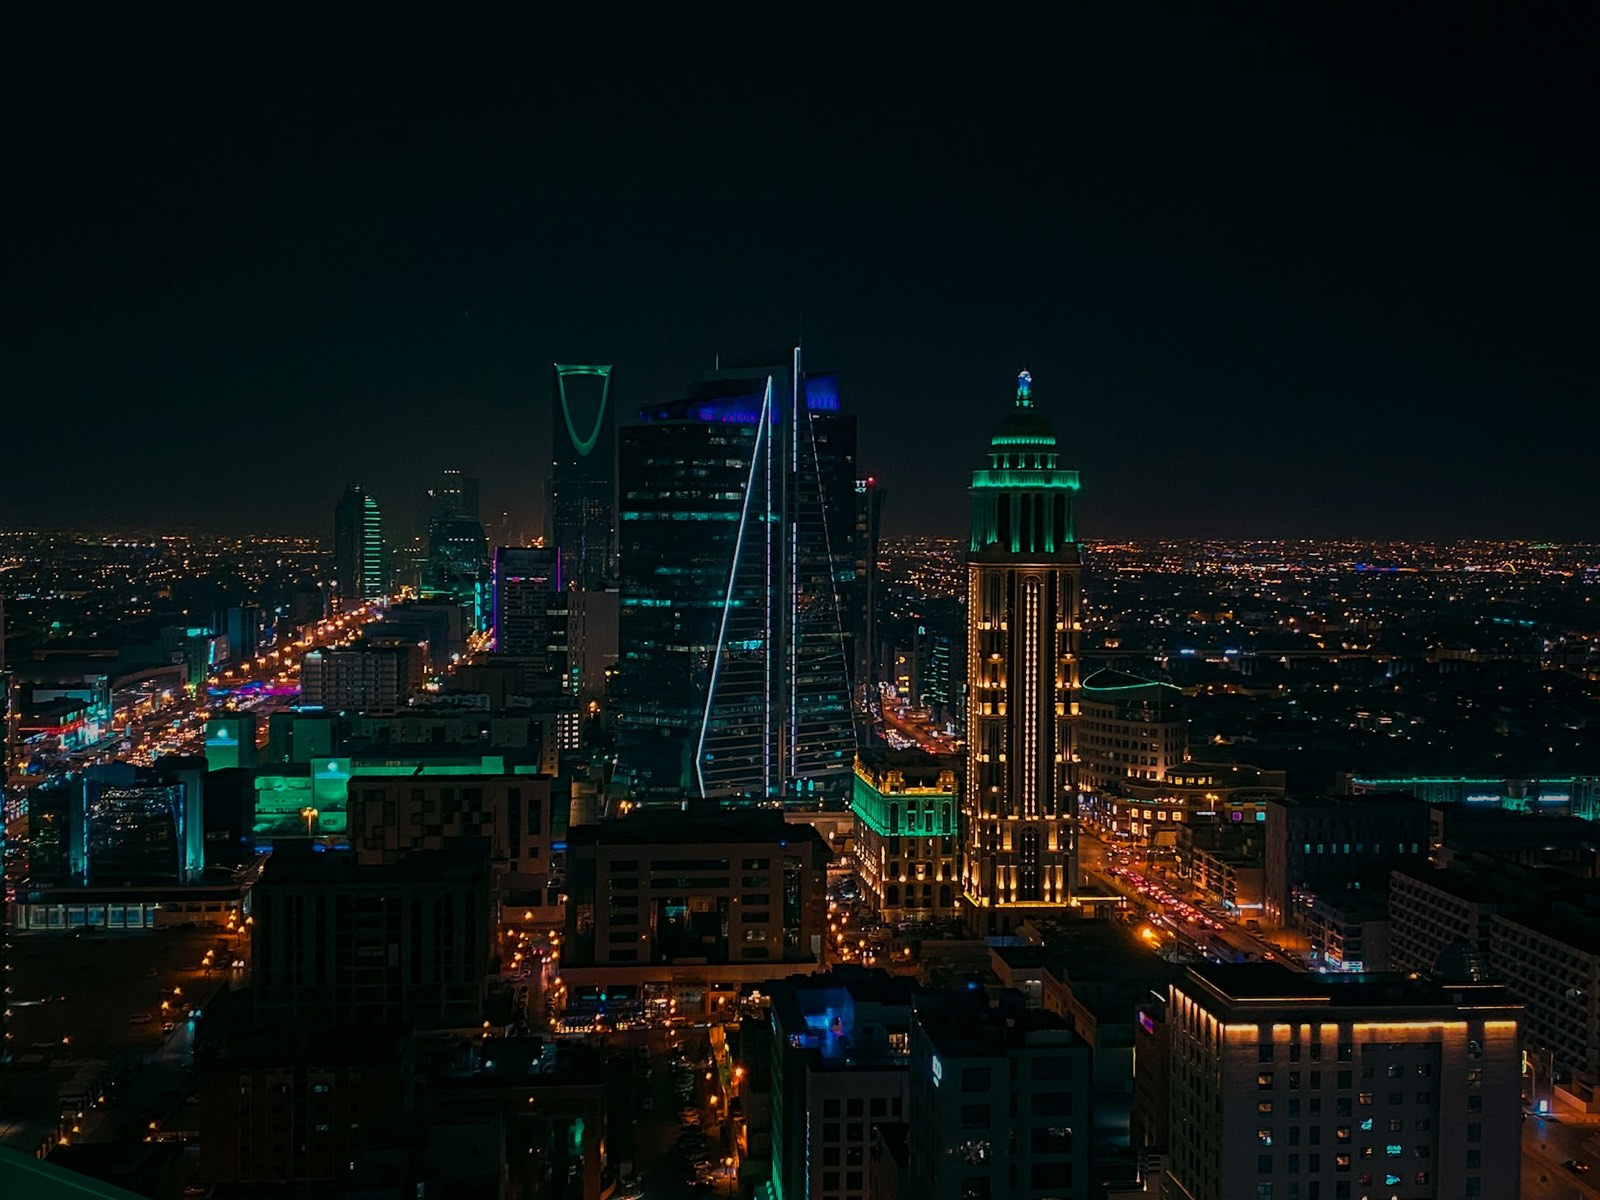
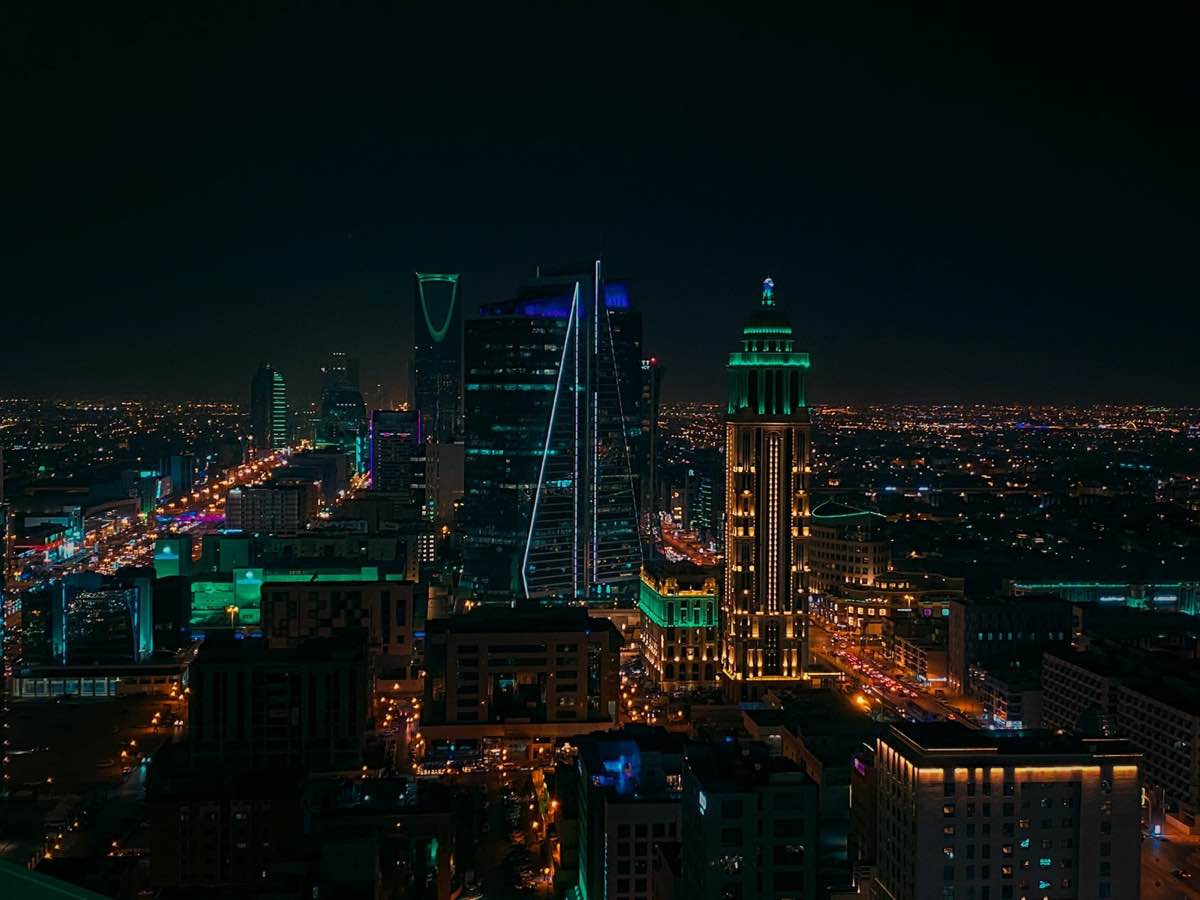
Refactor Middleware and Update Next.js Configuration for Enhanced Security and Performance
- Removed unnecessary comments and streamlined the middleware function in middleware.ts for clarity.
- Added security headers in next.config.js to improve application security.
- Updated package.json and package-lock.json to include the 'critters' package for improved performance.
- Changed image format in Hero component to WebP for better loading efficiency and visual quality.
- Preloaded the Riyadh skyline image in layout.tsx to enhance loading performance.

Changed region(s): [[0.0308, 0.5911, 0.0925, 0.6222], [0.7092, 0.6533, 0.74, 0.6844], [0.1233, 0.56, 0.1542, 0.5911]]

diff --git a/middleware.ts b/middleware.ts
@@ -1,31 +1,12 @@
 import { NextResponse } from 'next/server'
 import type { NextRequest } from 'next/server'
 
-/**
- * Landing page middleware – worldwide access, no geo-blocking.
- * The site is available globally with a focus on Saudi Arabia (KSA) and the Middle East.
- * Do not add country-based redirects or blocks here; deployment/CDN geo rules
- * (e.g. Vercel, Cloudflare) must also allow all regions if you want worldwide access.
- */
 export function middleware(request: NextRequest) {
-  const response = NextResponse.next()
-
-  // Security / UX headers only – no geo-blocking; site is worldwide (incl. Saudi Arabia)
-  response.headers.set('X-Content-Type-Options', 'nosniff')
-  response.headers.set('X-Frame-Options', 'DENY')
-  response.headers.set('Referrer-Policy', 'strict-origin-when-cross-origin')
-
-  return response
+  return NextResponse.next()
 }
 
 export const config = {
   matcher: [
-    /*
-     * Match all pathnames except:
-     * - _next/static (static files)
-     * - _next/image (image optimization)
-     * - favicon.ico, logo.png, other static assets
-     */
     '/((?!_next/static|_next/image|favicon.ico|logo.png|.*\\.(?:svg|png|jpg|jpeg|gif|webp|ico)$).*)',
   ],
 }

diff --git a/app/layout.tsx b/app/layout.tsx
@@ -5,7 +5,7 @@ import { LocaleProvider } from '@/context/LocaleContext'
 import { AnalyticsProvider } from '@/context/AnalyticsContext'
 import { JsonLd } from './json-ld'
 
-const ibm = IBM_Plex_Sans_Arabic({ subsets: ['latin', 'arabic'], variable: '--font-ibm', display: 'swap', weight: ['400', '500', '700'] })
+const ibm = IBM_Plex_Sans_Arabic({ subsets: ['latin', 'arabic'], variable: '--font-ibm', display: 'swap', weight: ['400', '700'] })
 
 export const metadata: Metadata = {
   title: {
@@ -98,7 +98,15 @@ export default function RootLayout({
       className={`${ibm.variable}`}
       suppressHydrationWarning
     >
-      {/* Body font: IBM Plex Sans Arabic */}
+      <head>
+        <link
+          rel="preload"
+          href="/images/riyadh-skyline.webp"
+          as="image"
+          type="image/webp"
+          fetchPriority="high"
+        />
+      </head>
       <body className="min-h-screen antialiased font-ibm">
         <JsonLd />
         <LocaleProvider>

diff --git a/components/Hero.tsx b/components/Hero.tsx
@@ -94,15 +94,15 @@ export function Hero() {
   const headlineWords = useMemo(() => headline.split(/\s+/).filter(Boolean), [headline])
 
   return (
-    <section ref={heroRef} className="relative overflow-hidden px-4 py-20 sm:px-6 sm:py-28 lg:py-36">
+    <section ref={heroRef} className="relative overflow-hidden bg-primary px-4 py-20 sm:px-6 sm:py-28 lg:py-36">
       {/* Riyadh Skyline at Night */}
       <div className="absolute inset-0">
         <Image
-          src="/images/riyadh-skyline.jpg"
+          src="/images/riyadh-skyline.webp"
           alt="Riyadh Skyline at Night - Saudi Arabia"
           fill
           sizes="100vw"
-          quality={70}
+          unoptimized
           priority
           fetchPriority="high"
           className="object-cover"

diff --git a/next.config.js b/next.config.js
@@ -15,6 +15,7 @@ const nextConfig = {
   },
   experimental: {
     optimizePackageImports: ['framer-motion'],
+    optimizeCss: true,
   },
   async headers() {
     return [
@@ -26,6 +27,14 @@ const nextConfig = {
             key: 'Cache-Control',
             value: 'public, max-age=31536000, immutable',
           },
+        ],
+      },
+      {
+        source: '/(.*)',
+        headers: [
+          { key: 'X-Content-Type-Options', value: 'nosniff' },
+          { key: 'X-Frame-Options', value: 'DENY' },
+          { key: 'Referrer-Policy', value: 'strict-origin-when-cross-origin' },
         ],
       },
     ]
